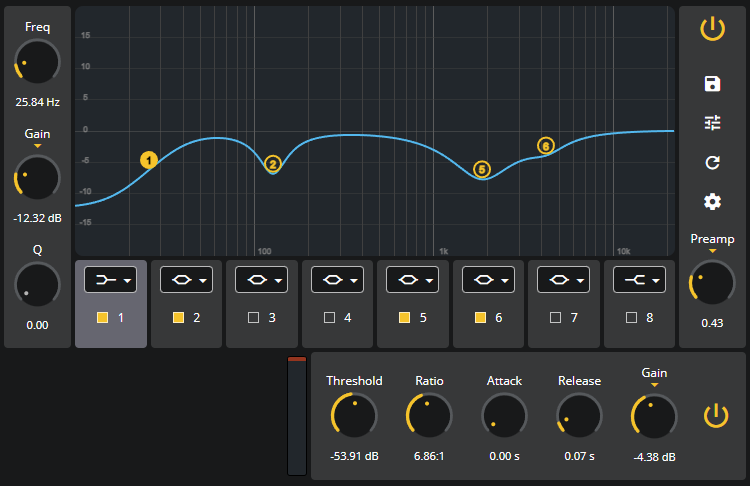
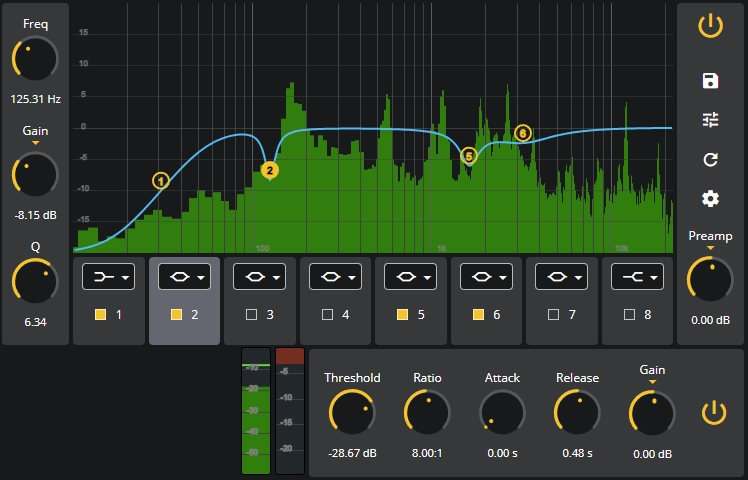
Use storage.sync + refactoring state changes

diff --git a/src/App.vue b/src/App.vue
@@ -308,11 +308,13 @@ import SettingsModal from './components/SettingsModal';
 import colors from './styles/_colors.scss';
 import FFTVis from './utils/FFTVis';
 import VUMeter from './utils/VUMeter';
+import throttle from './utils/throttle';
 
 const WebAudioContext = (window.AudioContext || window.webkitAudioContext);
 window.browser = window.msBrowser || window.browser || window.chrome;
 // Opera may not support sync
-const $storage = browser.storage.sync || browser.storage.local;
+const $storageSync = browser.storage.sync || browser.storage.local;
+const $storage = browser.storage.local;
 
 const opts = [
   { iconClass: ['eq8', 'highpass'], value: 'highpass', title: 'High Pass', qEnabled: false, gainEnabled: false },
@@ -363,13 +365,6 @@ export default {
   },
   created () {
     this.$bus.$on('fr-snapshot', snapshot => this.presetImage = snapshot);
-    // browser.runtime.onMessage.addListener(msg => {
-    //   if (msg.type === 'SET::STATE') this.stateUpdateHandler(msg.state);
-    //   return false;
-    // });
-    // browser.runtime.sendMessage({ type: 'GET::STATE' })
-    //   .then(msg => console.debug(msg) && this.stateUpdateHandler(msg.state))
-    //   .then(() => this.selectedFilter = this.frFilters[0]);
     $storage.get().then(items => this.stateUpdateHandler(items))
       .then(() => this.selectedFilter = this.frFilters[0]);
     $storage.onChanged.addListener(() => $storage.get().then(items => this.stateUpdateHandler(items)));
@@ -388,61 +383,50 @@ export default {
       if (this.selectedFilter) {
         this.selectedFilter = this.frFilters.find(f => f.id === this.selectedFilter.id && f.enabled);
       }
-      !visualizersInitialized && this.visualizers();
+      !visualizersInitialized && this.setupVisualizers();
     },
     gainDialHandler (value) {
       this.updateFilter(this.selectedFilter, { gain: value });
-      // browser.runtime.sendMessage({ type: 'SET::FILTER', filter: newFilter });
     },
     preampDialHandler (value) {
-      // browser.runtime.sendMessage({ type: 'SET::PREAMP', preampGain: value });
       state.preampGain = value;
-      $storage.set(state);
+      throttle($storage.set(state));
     },
     qDialHandler (value) {
       this.updateFilter(this.selectedFilter, { q: value });
-      // browser.runtime.sendMessage({ type: 'SET::FILTER', filter: Object.assign(this.selectedFilter, { q: value }) });
     },
     freqDialHandler (value) {
       const o = Math.log10(this.nyquist / this.freqStart);
       const f = this.nyquist * Math.pow(10, o * (value - 1));
       this.updateFilter(this.selectedFilter, { frequency: f });
-      // browser.runtime.sendMessage({ type: 'SET::FILTER', filter: Object.assign(this.selectedFilter, { frequency: f }) });
     },
     thresholdDialHandler (value) {
       state.compressor.threshold = value;
-      $storage.set(state);
-      // browser.runtime.sendMessage({ type: 'SET::COMPRESSOR', compressor: Object.assign(this.compressor, { threshold: value }) });
+      throttle($storage.set(state));
     },
     ratioDialHandler (value) {
       state.compressor.ratio = value;
-      $storage.set(state);
-      // browser.runtime.sendMessage({ type: 'SET::COMPRESSOR', compressor: Object.assign(this.compressor, { ratio: value }) });
+      throttle($storage.set(state));
     },
     attackDialHandler (value) {
       state.compressor.attack = value;
-      $storage.set(state);
-      // browser.runtime.sendMessage({ type: 'SET::COMPRESSOR', compressor: Object.assign(this.compressor, { attack: value }) });
+      throttle($storage.set(state));
     },
     releaseDialHandler (value) {
       state.compressor.release = value;
-      $storage.set(state);
-      // browser.runtime.sendMessage({ type: 'SET::COMPRESSOR', compressor: Object.assign(this.compressor, { release: value }) });
+      throttle($storage.set(state));
     },
     compGainDialHandler (value) {
       state.compressor.gain = value;
-      $storage.set(state);
-      // browser.runtime.sendMessage({ type: 'SET::COMPRESSOR', compressor: Object.assign(this.compressor, { gain: value }) });
+      throttle($storage.set(state));
     },
     changeFilterType (filter, option) {
       const q = option.value.endsWith('pass') ? 0.0 : 1.0;
       const gain = 0.0;
       this.updateFilter(filter, { type: option.value, q, gain });
-      // browser.runtime.sendMessage({ type: 'SET::FILTER', filter: Object.assign(filter, { type: option.value, q, gain }) });
     },
     freqInputHandler (value) {
       this.updateFilter(this.selectedFilter, { frequency: value });
-      // browser.runtime.sendMessage({ type: 'SET::FILTER', filter: Object.assign(this.selectedFilter, { frequency: value }) });
     },
     updateFilter (filter, prop) {
       Object.assign(filter, prop);
@@ -452,7 +436,7 @@ export default {
       f.q = filter.q;
       f.type = filter.type;
       f.enabled = filter.enabled;
-      $storage.set(state);
+      throttle($storage.set(state));
     },
     toFixed (value) {
       return value.toFixed(2);
@@ -476,14 +460,12 @@ export default {
     },
     toggleFilterEnabled (filter) {
       this.updateFilter(filter, { enabled: !filter.enabled });
-      // browser.runtime.sendMessage({ type: 'SET::FILTER', filter: Object.assign(filter, { enabled: !filter.enabled }) });
     },
     frFilterChanged (change) {
       const filter = this.frFilters.find(f => f.id === change.id);
       if (filter) {
         delete change.id;
         this.updateFilter(filter, change);
-        // browser.runtime.sendMessage({ type: 'SET::FILTER', filter: Object.assign(filter, change) });
       }
     },
     toggleMasterEnabled () {
@@ -492,7 +474,7 @@ export default {
     toggleCompressorEnabled () {
       browser.runtime.sendMessage({ type: 'SET::COMP_ENABLED', enabled: !this.compEnabled });
     },
-    visualizers () {
+    setupVisualizers () {
       visualizersInitialized = true;
       const meter = document.querySelector('.meter');
       this.reductionBar = document.querySelector('.reductionBar');
@@ -538,12 +520,12 @@ export default {
             timeDomainData = new Float32Array(data.timeDomainData);
             frequencyData = new Uint8Array(data.frequencyData);
             gainReductionLevel = data.gainReduction;
-            requestAnimationFrame(this.updateReductionLevel);
+            requestAnimationFrame(this.updateVisualisation);
             return false;
           });
       }, this.onError.bind(this));
     },
-    updateReductionLevel () {
+    updateVisualisation () {
       this.reductionBar.style.height = gainReductionLevel * -6 + 'px';
       this.VUMeter.draw(timeDomainData);
       this.FFTVis.draw(frequencyData);
@@ -561,9 +543,13 @@ export default {
         preampGain: this.preampGain
       };
       const presetId = preset.id || this.uuid();
-      state.presets[presetId] = preset.preset;
-      $storage.set(state);
-      // browser.runtime.sendMessage({ type: 'SAVE::PRESET', preset });
+      state.presets[presetId] = preset;
+      state.currentPreset = {
+        id: presetId,
+        stale: false
+      };
+      throttle($storage.set(state));
+      $storageSync.set(state);
       this.savePresetOpen = false;
     },
     loadPreset (presetId) {
@@ -572,8 +558,7 @@ export default {
     },
     deletePreset (presetId) {
       delete state.presets[presetId];
-      $storage.set(state);
-      // browser.runtime.sendMessage({ type: 'DELETE::PRESET', id: presetId });
+      throttle($storage.set(state));
     },
     onError (error) {
       console.debug(`Error: ${error}`);
@@ -619,7 +604,7 @@ export default {
     },
     settingsValue: {
       get () { return this.settings; },
-      set (settings) { state.settings = settings; $storage.set(state); }
+      set (settings) { state.settings = settings; throttle($storage.set(state)); }
     }
   },
   watch: {

diff --git a/extension/content_scripts/eq8.js b/extension/content_scripts/eq8.js
@@ -4,8 +4,7 @@
       window.browser ||
       window.chrome;
   })();
-  // Opera may not support sync
-  const $storage = browser.storage.sync || browser.storage.local;
+  const $storage = browser.storage.local;
 
   class EQ8 {
     POPUP_COM_RATE = 20; // in ms
@@ -106,7 +105,7 @@
 
     updatePipelines () {
       this.pipelines.forEach((pipeline) => {
-        const { context, source, filters, preamp, compressor, postamp } = pipeline;
+        const { context, source, filters, preamp, compressor, postamp, analyser } = pipeline;
         this.state.filters.forEach(f => {
           const entry = filters.find(i => i.id === f.id);
           const filter = entry.filter;
@@ -124,6 +123,7 @@
         filters.forEach(f => f.filter.disconnect());
         compressor.disconnect();
         postamp.disconnect();
+        analyser.disconnect();
         this.buildAudioGraph(pipeline);
       });
     }
@@ -137,7 +137,6 @@
     }
 
     onDomMutated () {
-      // let updated = false;
       const mediaElements = ([...document.body.querySelectorAll('video')])
         .concat([...document.body.querySelectorAll('audio')]);
 
@@ -145,9 +144,7 @@
         .filter(el => !el.eq8Comp)
         .forEach(el => {
           console.log('[eq8Comp]: new audio source discovered');
-          // updated = true;
           el.eq8Comp = true;
-          // el.addEventListener('playing', () => this.updateState());
           this.createPipelineForElement(el);
         });
 
@@ -158,15 +155,7 @@
         }
       }
       this.updatePipelines();
-      // if (updated) this.updateState();
     }
-
-    // onMessage (msg) {
-    //   if (msg.type === 'SET::STATE') {
-    //     this.state = msg.state;
-    //     this.updatePipelines();
-    //   }
-    // }
 
     multiplierFromGain (valueInDb) {
       return Math.pow(10, valueInDb / 20);
@@ -229,21 +218,8 @@
         }
       };
     }
-
-    // updateState () {
-    //   return new Promise((resolve) => {
-    //     browser.runtime.sendMessage({ type: 'GET::STATE' })
-    //       .then(resp => {
-    //         this.state = resp.state;
-    //         resolve();
-    //         this.updatePipelines();
-    //         return false;
-    //       }).catch(onError);
-    //   });
-    // }
   }
 
-  const onError = (error) => console.error(`[eq8comp] Error: ${error}`);
   const eq8 = new EQ8();
   eq8.attach();
 })();

diff --git a/extension/background_scripts/background.js b/extension/background_scripts/background.js
@@ -2,7 +2,8 @@ const browser = (function () {
   return chrome || browser;
 })();
 // Opera may not support sync
-const $storage = browser.storage.sync || browser.storage.local;
+const $storageSync = browser.storage.sync || browser.storage.local;
+const $storage = browser.storage.local;
 
 const defaultCompressor = {
   enabled: true,
@@ -92,6 +93,10 @@ const defaultState = {
   settings: {
     sensitivity: 1024
   },
+  currentPreset: {
+    id: null,
+    stale: true
+  },
   presets: {
     'd9c9ad7c-4ba6-4a7d-9f37-2e476fdfafba': {
       name: 'Default',
@@ -112,15 +117,22 @@ const { icons, iconsSelected } = iconSizes.reduce((a, c) => {
   return a;
 }, { icons: {}, iconsSelected: {} });
 
-// const onError = (error) => console.error(`Error: ${error}`);
+const onError = (error) => console.error(`Error: ${error}`);
 const isCachedStateEmpty = () => !Object.hasOwn(state, 'v');
 
 const state = {};
 const initStorageCache = $storage.get().then((items) => {
   Object.assign(state, items);
-  if (isCachedStateEmpty()) Object.assign(state, defaultState) && $storage.set(state);
-  updateIcon();
-});
+  if (isCachedStateEmpty()) {
+    $storageSync.get().then((items) => {
+      Object.assign(state, items);
+      if (isCachedStateEmpty()) Object.assign(state, defaultState) && $storage.set(state);
+      updateIcon();
+    }).catch(onError);
+  } else {
+    updateIcon();
+  }
+}).catch(onError);
 
 const updateIcon = () => browser.action.setIcon({ path: state.compressor.enabled || state.eqEnabled ? iconsSelected : icons });
 
@@ -151,6 +163,7 @@ browser.runtime.onMessage.addListener(async (msg, sender, sendResponse) => {
   case 'RESET::FILTERS':
     state.filters = copyHack(defaultFilters);
     state.preampGain = 0.0;
+    state.currentPreset.stale = true;
     $storage.set(state);
     break;
   case 'LOAD::PRESET':
@@ -158,6 +171,8 @@ browser.runtime.onMessage.addListener(async (msg, sender, sendResponse) => {
     state.compressor = copyHack(pre.compressor);
     state.filters = copyHack(pre.filters);
     state.preampGain = pre.preampGain;
+    state.currentPreset.id = msg.id;
+    state.currentPreset.stale = false;
     $storage.set(state);
     break;
   default:

diff --git a/README.md b/README.md
@@ -1,12 +1,18 @@
-![](https://raw.githubusercontent.com/guiohm/eq8Comp/master/extension/icons/icon-128.png)
+![icon](https://raw.githubusercontent.com/guiohm/eq8Comp/master/extension/icons/icon-128.png)
+![Screenshot](https://raw.githubusercontent.com/guiohm/eq8Comp/master/Screenshot.png)
 
 # eq8comp
 
 _Forked from <https://github.com/pulse0ne/eq8>_
 
-I needed to add a compressor because separate audio extensions cannot share a common media source, so here it is.
+I needed to add a compressor to the original eq8 because separate audio extensions cannot share a common media source, so here it is.
 
-![Screenshot](https://raw.githubusercontent.com/guiohm/eq8Comp/master/Screenshot.png)
+Other changes:
+
+- FFT visualisation
+- upgraded to manifest v3
+- Saved preset are synced so you can retrieve them on other machines or browser instances
+- various other details, see commit logs
 
 ## Original description
 
